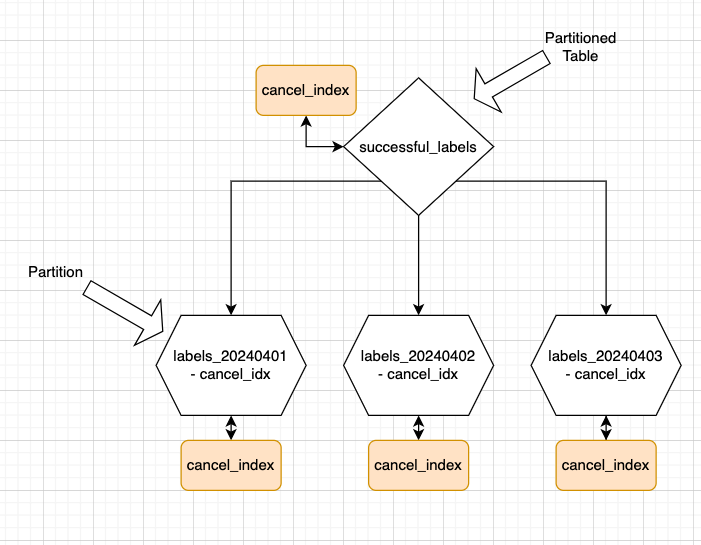
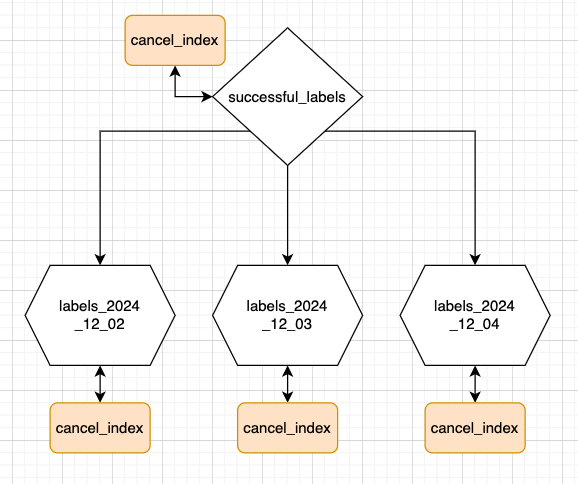
update diagrams

diff --git a/innerconPartitionsTalk/new-index-on-partitioned-tables.md b/innerconPartitionsTalk/new-index-on-partitioned-tables.md
@@ -1,12 +1,12 @@
 In April 2024 our team ran into this exact problem, how did we solve it?
 ---
 ## Background Context
-- New table to house successful shipping label requests
+- New (replacement) table to house successful shipping label requests
 - Database interactions:
     - Writes: once for each successful request
     - Read & Update: cancellation requests
     - Reads: reprint requests
-- Table is partitioned by list - using "upload date"
+- Table is partitioned by list - using "created date"
 
 
 <img src="images/label_partitions.png">
@@ -23,8 +23,7 @@ In April 2024 our team ran into this exact problem, how did we solve it?
 - Adds load to the server, causing slowness as well
 
 
-- Using `CONCURRENTLY` allows you to add an index without locking the table (with previously mentioned caveats)
-- HOWEVER:
+- Using `CONCURRENTLY` helps to avoid the table lock, however...
 ```"...one limitation when creating new indexes on partitioned tables is that it is not possible to use the CONCURRENTLY qualifier, which could lead to long lock times."```
 - Postgres suggests a process with a few more steps...
 ---
